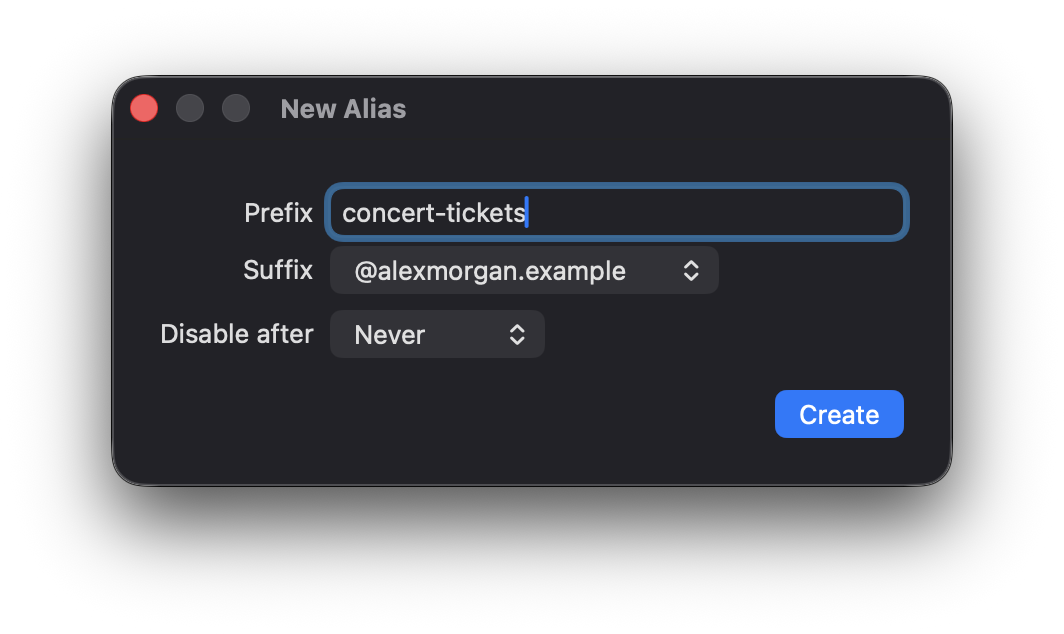
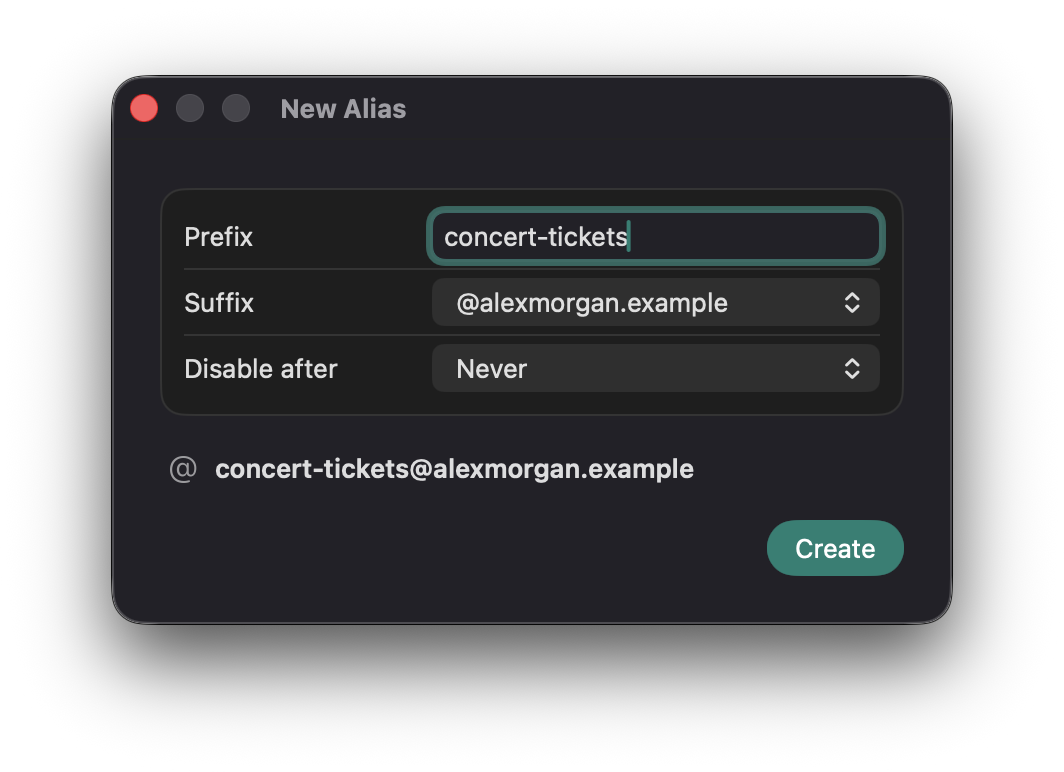
Refresh screenshots and docs for the redesign

diff --git a/scripts/take-screenshots.swift b/scripts/take-screenshots.swift
@@ -1,6 +1,9 @@
 // Takes the README screenshots from a Debug build running in demo mode.
 //
-//     swift scripts/take-screenshots.swift <path to Debug Ajour.app> <output directory>
+//     swift scripts/take-screenshots.swift <path to Debug Ajour.app> <output directory> [dark]
+//
+// The optional `dark` argument launches the demo with `-AppleInterfaceStyle Dark`. That only affects the windows: the
+// status menu follows the system appearance, so switch the system itself to take the menu in the other appearance.
 //
 // Needs Screen Recording and Accessibility permission for the terminal app. While it runs, it covers the screen
 // with a backdrop and moves the mouse, so don't touch the Mac until it finishes.
@@ -9,10 +12,11 @@ import AppKit
 import ApplicationServices
 
 let arguments = CommandLine.arguments
-guard arguments.count == 3 else {
-    print("usage: swift scripts/take-screenshots.swift <path to Debug Ajour.app> <output directory>")
+guard arguments.count == 3 || (arguments.count == 4 && arguments[3] == "dark") else {
+    print("usage: swift scripts/take-screenshots.swift <path to Debug Ajour.app> <output directory> [dark]")
     exit(2)
 }
+let usesDarkWindows = arguments.count == 4
 let appURL = URL(fileURLWithPath: arguments[1])
 let outputURL = URL(fileURLWithPath: arguments[2], isDirectory: true)
 try FileManager.default.createDirectory(at: outputURL, withIntermediateDirectories: true)
@@ -35,6 +39,7 @@ func launchDemo(signedOut: Bool = false) -> Process {
     let process = Process()
     process.executableURL = appURL.appendingPathComponent("Contents/MacOS/Ajour")
     process.arguments = ["-AjourDemo", "YES", "-AjourDemoSignedOut", signedOut ? "YES" : "NO"]
+    if usesDarkWindows { process.arguments? += ["-AppleInterfaceStyle", "Dark"] }
     do { try process.run() } catch { fail("could not launch \(appURL.path): \(error)") }
     return process
 }
@@ -231,7 +236,7 @@ let demo = launchDemo()
 _ = statusItem(of: demo)
 wait(3)
 
-captureMenu(of: demo, hovering: { $0.hasPrefix("● travel@") }, as: "menu.png")
+captureMenu(of: demo, hovering: { $0.hasPrefix("travel@") }, as: "menu.png")
 
 choose("All Aliases…", in: demo)
 captureWindow(titled: "All Aliases", of: demo, as: "all-aliases.png")
@@ -243,6 +248,10 @@ wait(1.5)
 clickTextField(inWindowTitled: "New Alias", of: demo)
 type("concert-tickets")
 captureWindow(titled: "New Alias", of: demo, as: "new-alias.png")
+press(keyCode: 13, flags: .maskCommand)
+
+choose("Settings…", in: demo)
+captureWindow(titled: "Settings", of: demo, as: "settings.png")
 press(keyCode: 13, flags: .maskCommand)
 
 quit(demo)

diff --git a/docs/mvp-manual-checks.md b/docs/mvp-manual-checks.md
@@ -9,40 +9,42 @@ The bundle identifier changed to `de.dieserjonas.ajour`, so an API key saved by 
 ## Onboarding and settings
 
 1. First launch shows onboarding.
-2. A wrong key shows "The API key was rejected. Please sign in again." (the `APIError.unauthorized.userMessage` wording from the package).
-3. A correct key shows name and email, then the final step. Done enables launch at login (check System Settings > General > Login Items) and shows the notification permission prompt.
-4. After a relaunch, no onboarding appears, and Settings shows name and email.
-5. Settings > Sign Out returns to onboarding.
-6. Settings > Replace API Key… goes straight to the key step and closes after confirmation.
-7. "Settings…" in the menu, and ⌘, while an Ajour window is in front, both open Settings in front.
-8. Settings > About shows the tagline and that Ajour is not affiliated with SimpleLogin or Proton AG.
-9. Copy a key in the browser and switch back: "Use key from clipboard" appears. It may trigger macOS 26's paste-privacy prompt; see concerns.
-10. With ad-hoc signing, the Launch-at-login toggle may show "Could not change launch at login. …" instead of crashing.
+2. The progress dots read "Step 1 of 4" through "Step 4 of 4" as you go.
+3. A wrong key shows "SimpleLogin did not accept this key. Check that you copied all of it, or create a new one." inline under the field.
+4. A correct key shows name and email, then the final step. Done enables launch at login (check System Settings > General > Login Items) and shows the notification permission prompt.
+5. Back returns from the key step to the welcome step and from "Signed In" to the key step. The welcome and final steps have no Back button.
+6. After a relaunch, no onboarding appears, and Settings shows name and email.
+7. Settings > Sign Out asks "Sign Out of Ajour?" with the sentence that Ajour disables aliases with a running timer and removes the API key. Cancel keeps you signed in. Sign Out returns to onboarding, and a running timer's alias is disabled in the web app.
+8. Settings > Replace API Key… goes straight to the key step, with no progress dots and no Back button, and closes after confirmation.
+9. "Settings…" in the menu, and ⌘, while an Ajour window is in front, both open Settings in front.
+10. Settings > About shows the tagline and that Ajour is not affiliated with SimpleLogin or Proton AG.
+11. Copy a key in the browser and switch back: the "API key on clipboard" card with "Use Key from Clipboard" appears. It may trigger macOS 26's paste-privacy prompt; see concerns.
+12. With ad-hoc signing, the Launch-at-login toggle may show "Ajour could not be added to your login items. Allow it in System Settings › General › Login Items." with an "Open Login Items…" button instead of crashing. The button opens System Settings > General > Login Items.
 
 ## Menu: pinned and timed aliases
 
-1. Pin a disabled test alias in the web app and open the menu. It appears as "○ alias@…", at the latest a moment after the menu opens.
+1. Pin a disabled test alias in the web app and open the menu. It appears under "Pinned" with the disabled symbol and the word "Disabled" under its address, at the latest a moment after the menu opens.
 2. "Enable for 5 Minutes":
    - The alias is enabled in the web app.
-   - The menu bar icon switches to `envelope.badge.fill`.
-   - The title shows "● … · 4:59 left".
+   - The menu bar icon switches to the glyph with the timer dot.
+   - The row moves under "Timers" and shows "4:59 left · off at HH:MM" under the address, with the timer symbol.
 3. The remaining time counts down while the menu is open, also while that alias's submenu is open. The submenu stays open.
-4. "Extend" ▸ "1 Hour": the remaining time jumps to about 1:00:00.
+4. "Extend" ▸ "1 Hour": the remaining time jumps to about 1:00:00, and the turn-off time moves with it.
 5. "Disable Now":
    - The alias is disabled in the web app.
-   - It shows "○" right away.
+   - It shows "Disabled" right away.
    - The icon switches back.
-6. Enable a pinned alias permanently in the web app and reopen the menu. It shows "●" with Disable Now and "Disable After …". "Disable After 5 Minutes" makes it timed, with no change in the web app.
+6. Enable a pinned alias permanently in the web app and reopen the menu. It shows "Enabled" with Disable Now and "Disable After …". "Disable After 5 Minutes" makes it timed, with no change in the web app.
 7. Expiry: temporarily patch `AliasDuration.fiveMinutes.seconds` locally (e.g. 30) and don't commit it. After expiry, the alias is disabled in the web app and leaves the timed state.
 8. Quit while an alias is timed. The alias is disabled in the web app.
 9. "Copy Address" puts the email on the clipboard.
-10. With Wi-Fi off, "Enable for …" shows "Could not reach SimpleLogin. Check your network connection." at the top of the menu. A later successful action removes it.
-11. A timer started elsewhere for an alias that isn't pinned shows in the top section. You can create one by starting a timer, then unpinning the alias in the web app and reopening the menu.
+10. With Wi-Fi off, "Enable for …" shows "Could not reach SimpleLogin." with "Check your network connection." beneath it at the top of the menu. A later successful action removes it.
+11. A timer started elsewhere for an alias that isn't pinned shows under "Timers" at the top. You can create one by starting a timer, then unpinning the alias in the web app and reopening the menu.
 
 ## Notifications
 
-1. Enable a pinned alias for 5 minutes and send a mail to it. Within about 15 s, a "Mail received" notification appears with "<alias> from <sender>".
-2. Click the notification. The alias is disabled (the menu shows ○ and the icon goes back to normal).
+1. Enable a pinned alias for 5 minutes and send a mail to it. Within about 15 s, a "Mail received" notification appears with "<alias> from <sender>" and "Alias turns off at HH:MM".
+2. Click the notification. The alias is disabled (the menu shows "Disabled" and the icon goes back to normal).
 3. Repeat, using the "Disable Now" button on the notification instead (hover the banner or open the notification's options).
 4. Disable a timed alias from the menu while its "Mail received" notification is still in Notification Center. The notification disappears.
 5. Quit the app while a "Mail received" notification is still in Notification Center, then click it. The app launches and the alias gets disabled.
@@ -53,20 +55,20 @@ The bundle identifier changed to `de.dieserjonas.ajour`, so an API key saved by 
 ## Creating aliases
 
 1. "New Random Alias": the alias appears in the SimpleLogin web app on your default random-alias domain, it is in the clipboard, and an "Alias copied" banner appears.
-2. "New Random Alias That Expires ▸ After 5 Minutes": the alias shows at the top of the menu in the timed section with a countdown, and is disabled after 5 minutes.
+2. "New Random Alias That Expires ▸ After 5 Minutes": the alias shows under "Timers" at the top of the menu with a countdown and its turn-off time, and is disabled after 5 minutes.
 3. "New Alias…": the window opens in front, custom domains are listed first in the suffix picker, and "Disable after" defaults to Never. Creating on a custom domain copies the alias, shows the banner, and closes the window. The alias uses your default mailbox (check in the web app).
-4. "New Alias…" with "Disable after 1 Hour": the alias appears in the timed section.
+4. "New Alias…" with "Disable after 1 Hour": the alias appears under "Timers".
 5. An invalid prefix (e.g. "ä!"): the server's error text appears inline in red and the window stays open.
 6. Close and reopen the window: the form starts empty and the suffixes load again.
 
 ## All Aliases window
 
 With a real account, from the menu bar: All Aliases…
-1. The window opens in front. The list shows aliases with their notes, a pin icon on pinned ones, and the state on the right.
+1. The window opens in front. The subtitle counts aliases and running timers. The list groups aliases under "Pinned" and "Other Aliases", with their notes, a pin icon on pinned ones, and the state on the right.
 2. With more than 20 aliases, scrolling to the bottom loads more (a spinner appears briefly) with no duplicates.
 3. Typing part of an alias's email in the search field finds it after a short pause. Clearing the field shows all aliases again.
 4. Right-click a row and choose Pin. The pin icon appears, and the alias shows up in the menu bar menu's pinned section. Unpin removes it.
-5. On a disabled, unpinned alias, choose "Enable for 5 Minutes". The row shows "5:00 left" counting down, and the menu shows the alias in the timed section at the top.
+5. On a disabled, unpinned alias, choose "Enable for 5 Minutes". The row shows "5:00 left" counting down with "off at HH:MM" beneath it, and the menu shows the alias under "Timers" at the top.
 6. "Enable Permanently" on a disabled alias shows "Enabled", with no timer in the menu. "Disable" shows "Disabled". Both should match the SimpleLogin web app.
 7. "Copy Address" puts the email on the clipboard.
 8. Optional: with the network off, an action shows its error at the bottom of the window and as a single-line, shortened entry at the top of the menu.

diff --git a/README.md b/README.md
@@ -11,7 +11,7 @@
 </p>
 
 <p align="center">
-  <img src="docs/images/menu.png" width="600" alt="The Ajour menu with pinned aliases, one of them enabled with 47 minutes left">
+  <img src="docs/images/menu.png" width="600" alt="The Ajour menu with timed and pinned aliases, one of them enabled with 47 minutes left and turning off at 15:20">
 </p>
 
 Some websites send nothing but spam, so you keep their [SimpleLogin](https://simplelogin.io) alias disabled. Then you need to log in, the site emails you a login code, and you have to open the SimpleLogin dashboard, enable the alias, wait for the mail, and remember to disable it again.
@@ -20,17 +20,22 @@ Ajour turns that into two clicks. Pick the alias in the menu bar, enable it for 
 
 ## Features
 
-- **Enable aliases for a while.** Turn any pinned alias on for 5 minutes, 1 hour, or 24 hours. The menu counts down the time left, and you can extend the timer, keep the alias enabled, or disable it early.
-- **Know when mail arrives.** While a timer runs, Ajour checks the alias every 15 seconds and notifies you about new mail, with a Disable Now button in the notification.
+- **Enable aliases for a while.** Turn any pinned alias on for 5 minutes, 1 hour, or 24 hours. The menu counts down the time left and shows when the alias turns off, such as "47:06 left · off at 14:54", and you can extend the timer, keep the alias enabled, or disable it early.
+- **See every alias's state at a glance.** Each alias in the menu shows a symbol and a word for its state: enabled, disabled, or a countdown. Running timers are listed first, under their own header. Every state has its own shape, so color is never the only cue, and VoiceOver reads the state and turn-off time.
+- **Know when mail arrives.** While a timer runs, Ajour checks the alias every 15 seconds and notifies you about new mail and when the alias turns off, with a Disable Now button in the notification.
 - **Never leave an alias on by accident.** If your Mac is asleep or Ajour isn't running when a timer ends, the alias is disabled right after wake or at the next launch. Quitting Ajour disables timed aliases first. When disabling keeps failing, Ajour tells you and keeps trying.
 - **Create aliases fast.** One click creates a random alias and copies it to the clipboard, optionally with an expiry. The New Alias window takes your own prefix and offers your custom domains first.
 - **Find any alias.** The All Aliases window searches your whole account. Right-click an alias to pin it to the menu, copy it, or enable or disable it.
-- **Stay out of the way.** Ajour lives in the menu bar, has no Dock icon, and can start at login.
+- **Stay out of the way.** Ajour lives in the menu bar, has no Dock icon, and can start at login. If macOS blocks launching at login, Settings links to Login Items. Signing out asks for confirmation first.
 
 <table>
   <tr>
-    <td width="50%"><img src="docs/images/all-aliases.png" alt="The All Aliases window with search, pinned aliases, and remaining time"></td>
-    <td width="50%"><img src="docs/images/new-alias.png" alt="The New Alias window with prefix, suffix, and expiry"><br><img src="docs/images/onboarding.png" alt="The welcome step of onboarding"></td>
+    <td width="50%" valign="top"><img src="docs/images/all-aliases.png" alt="The All Aliases window with search, pinned aliases, and remaining time"></td>
+    <td width="50%" valign="top"><img src="docs/images/settings.png" alt="The Settings window with account, launch at login, and about"></td>
+  </tr>
+  <tr>
+    <td width="50%" valign="top"><img src="docs/images/new-alias.png" alt="The New Alias window with prefix, suffix, and a live preview of the address"></td>
+    <td width="50%" valign="top"><img src="docs/images/onboarding.png" alt="The welcome step of onboarding with progress dots"></td>
   </tr>
 </table>
 
@@ -70,7 +75,7 @@ swift test --package-path Packages/SimpleLoginKit
 xcodebuild test -project Ajour.xcodeproj -scheme Ajour -destination "platform=macOS"
 ```
 
-Debug builds have a demo mode with a made-up account, so you can try the UI without an API key: pass `-AjourDemo YES` as a launch argument, or add `-AjourDemoSignedOut YES` to start at onboarding. The screenshots in this README come from demo mode via `swift scripts/take-screenshots.swift <path to Debug Ajour.app> docs/images`.
+Debug builds have a demo mode with a made-up account, so you can try the UI without an API key: pass `-AjourDemo YES` as a launch argument, or add `-AjourDemoSignedOut YES` to start at onboarding. The screenshots in this README come from demo mode via `swift scripts/take-screenshots.swift <path to Debug Ajour.app> docs/images`, in the system's current appearance.
 
 [docs/ci.md](docs/ci.md) explains the CI pipeline and how releases are made.
 
